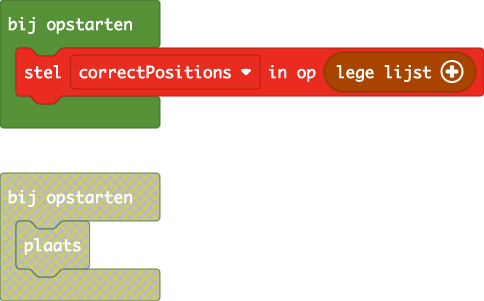
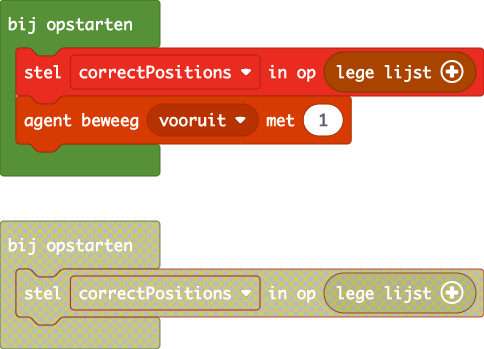
main.blocks, main.ts, t_level10.md bijwerken

diff --git a/main.ts b/main.ts
@@ -1,1 +1,2 @@
 let correctPositions: String[] = []
+

diff --git a/t_level10.md b/t_level10.md
@@ -7,6 +7,7 @@ player.onChat("jump", function () {
     for (let index = 0; index < 4; index++) {
         CodeCosmos.moveAndPlace(FourDirection.Left, 0)
         CodeCosmos.place()
+        agent.move(FORWARD, 1)
     }
 })
 ```
